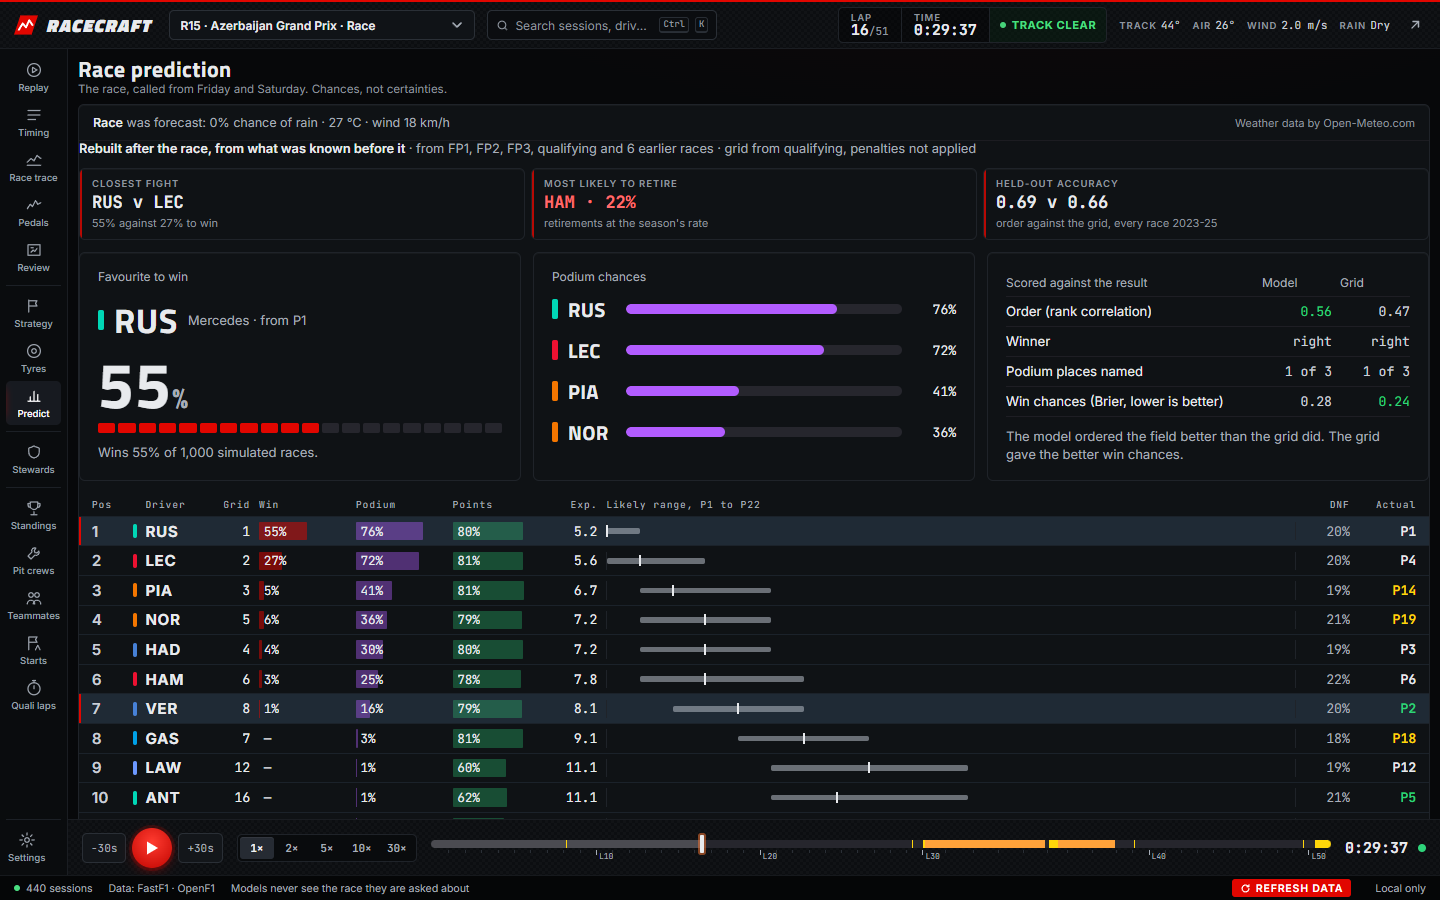
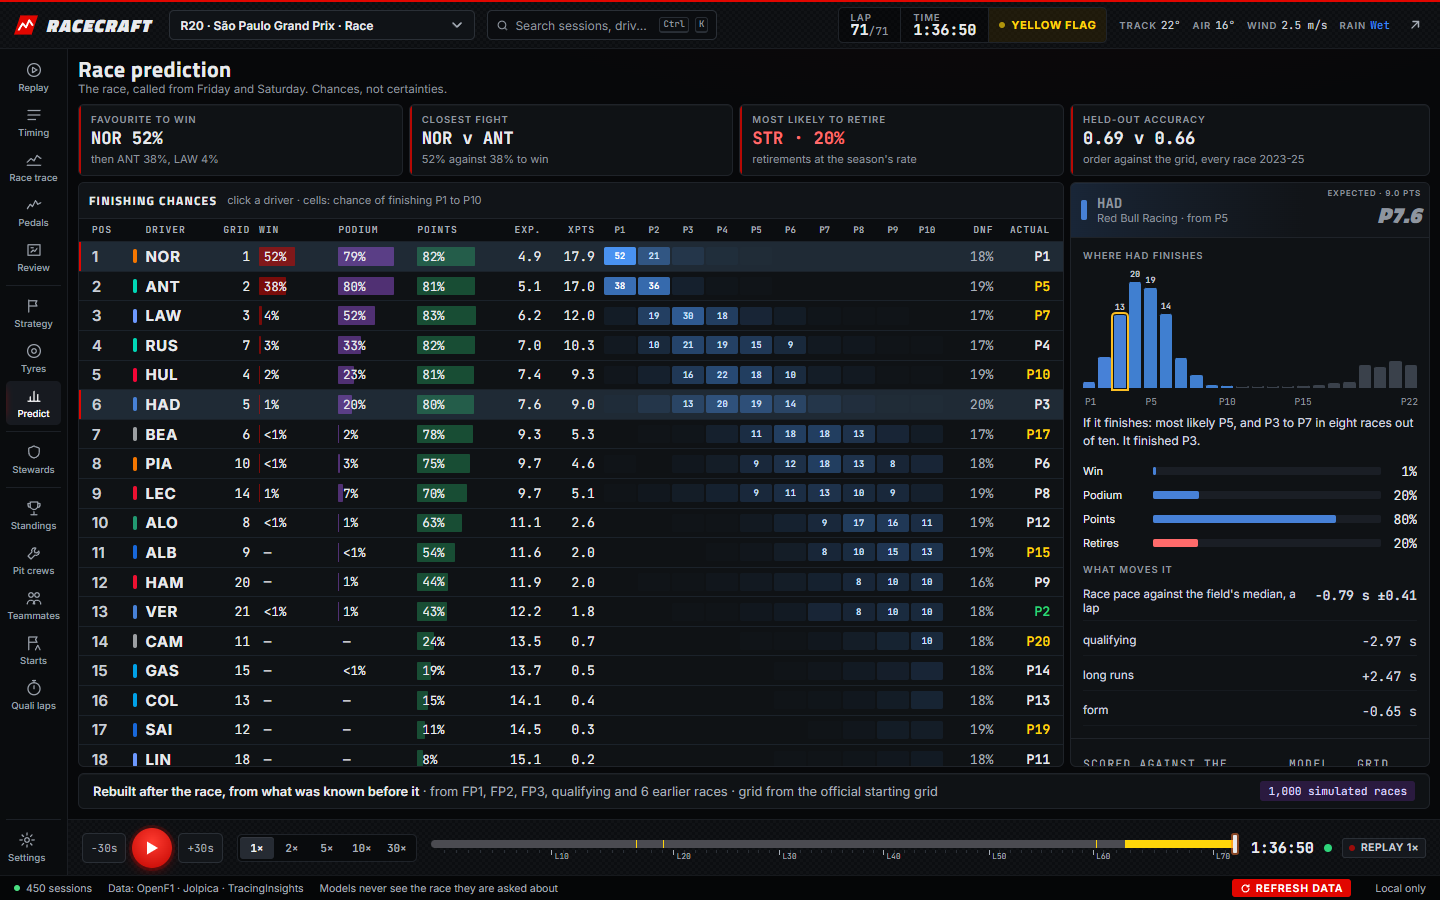
README and download page: describe the redesigned screens, retake every screenshot on São Paulo 2026, and update the 2026 replay figures (20 races)

diff --git a/README.md b/README.md
@@ -82,17 +82,17 @@ timing tower can sit on a second monitor.
 | | |
 |---|---|
 | **Replay**: a pit wall. The timing tower, the circuit coloured by a followed car's last lap (green flat out, red braking), and a dashboard for each of two followed drivers (speed, gear, revs, throttle, brake, the gaps either side); race control; and the followed drivers' last laps, channel by channel against lap distance. | ![Replay](docs/screenshots/replay.png) |
-| **Timing tower**: every car's gap, interval, last and best lap, sectors in timing colours, tyre and age, stops and penalties. | ![Timing tower](docs/screenshots/timing-tower.png) |
-| **Race trace**: the gap to the leader lap by lap, drawn only up to the lap on the clock. Safety-car laps are shaded. | ![Race trace](docs/screenshots/race-trace.png) |
-| **Pedals and speed**: one driver's lap against another's by distance: the time between them, speed, throttle, brake, gear and every brake zone. | ![Pedals and speed](docs/screenshots/pedals-and-speed.png) |
+| **Timing tower**: every car's gap, interval, last and best lap, sectors in timing colours, tyre and age, stops and penalties; beside it the field on a ring, one turn a lap, each car a tick that moves with the replay. | ![Timing tower](docs/screenshots/timing-tower.png) |
+| **Race trace**: positions lap by lap, with safety-car laps shaded and every pit stop marked; the gap to the leader and the interval as a bar per driver at any lap, with a lap slider; and each driver's race pace as a box of their green-flag laps. Nothing after the lap on the clock is shown. | ![Race trace](docs/screenshots/race-trace.png) |
+| **Pedals and speed**: one driver's lap against another's by distance: the headline figures, the time between them shaded by who is ahead, speed, a pedal row per driver, and every corner with each driver's slowest point, the time gained or lost there, and where they braked or lifted. | ![Pedals and speed](docs/screenshots/pedals-and-speed.png) |
 | **Race review**: per driver, overtakes made and lost on track, and each pit stop's lap and the places it cost, marked when made under a safety car, VSC or red flag. Click a driver to see their stops along the race, each in a sentence. | ![Race review](docs/screenshots/race-review.png) |
 
 ### Plan
 
 | | |
 |---|---|
-| **Strategy**: each car's pit window and most likely stop lap, the undercut watch, a stint map, and the cheapest plans raced against the field. | ![Strategy](docs/screenshots/strategy.png) |
-| **Tyres**: the wear curve for each compound with every car placed on it, and every car's tyre sets through the weekend. | ![Tyres](docs/screenshots/tyres.png) |
+| **Strategy**: each car's stints so far and the rest of its race shaded by what a stop on each lap would cost, with the cheapest lap marked; where it would rejoin among the cars around it; and the cheapest plans raced against the field. | ![Strategy](docs/screenshots/strategy.png) |
+| **Tyres**: a wear chart for each compound with every car placed on it at its tyres' age, and every car's tyre sets through the weekend. | ![Tyres](docs/screenshots/tyres.png) |
 | **Race prediction**: the favourite, podium chances, the full predicted order with each driver's likely range, and after the race the result beside it. | ![Race prediction](docs/screenshots/race-prediction.png) |
 
 ### Control
@@ -106,9 +106,9 @@ timing tower can sit on a second monitor.
 | | |
 |---|---|
 | **Standings**: both championships as they stood going into the session or after it, with each driver's and team's chance of the title. | ![Standings](docs/screenshots/standings.png) |
-| **Pit crews**: every team's crew ranked by its typical stop against the race's typical stop. | ![Pit crews](docs/screenshots/crews.png) |
+| **Pit crews**: every team's crew ranked by its typical stop against the race's typical stop, each as a box of all its stops this season. | ![Pit crews](docs/screenshots/crews.png) |
 | **Teammates**: each team's two drivers head to head: who qualified ahead, who was faster in races and practice, who finished ahead, and a round-by-round chart of the gap. | ![Teammates](docs/screenshots/teammates.png) |
-| **Starts**: places each driver gains or loses on lap 1, judged against what drivers starting from the same grid slots usually gain. | ![Starts](docs/screenshots/starts.png) |
+| **Starts**: an arrow per driver from grid slot to place after lap 1, judged against what drivers starting from the same grid slots usually gain. | ![Starts](docs/screenshots/starts.png) |
 | **Qualifying laps**: each driver's best lap against their own perfect lap (their three best sectors added together): the time left on the table, and where. | ![Qualifying laps](docs/screenshots/qualifying-laps.png) |
 
 **Settings** holds units, row density, the map's labels and refreshing the data.
@@ -157,11 +157,11 @@ on the other two; 2026, a new rulebook, was never trained on.
 | | Finishing order (rank correlation) | Win chances (Brier, lower is better) |
 |---|---|---|
 | 2023 to 2025, 69 races | **0.69** model, 0.66 grid | **0.54** model, 0.63 grid |
-| 2026, 18 races | **0.69** model, 0.66 grid | **0.45** model, 0.47 grid |
+| 2026, 20 races | **0.69** model, 0.64 grid | **0.48** model, 0.50 grid |
 
 It beats "everyone finishes where they started" every season, by a small margin:
 the grid already holds most of what is knowable on Saturday night. Over 2023 to 2025
-the gain is statistically real (Wilcoxon signed-rank, p < 0.001); 18 races of 2026
+the gain is statistically real (Wilcoxon signed-rank, p < 0.001); 20 races of 2026
 are too few to prove it either way.
 
 **Sprint prediction** ties the grid on order (a sprint is short and nobody stops)

diff --git a/docs/TECHNICAL.md b/docs/TECHNICAL.md
@@ -1131,7 +1131,7 @@ Bahrain 2023 is skipped: there is nothing before it in the lake.
 | 2023 | 21 | **0.64** / 0.59 / 0.59 | 76% / 62% / **81%** | **2.00** / 1.90 |
 | 2024 | 24 | **0.77** / 0.73 / 0.67 | **46%** / **46%** / 30% | 2.00 / 2.00 |
 | 2025 | 24 | **0.66** / 0.65 / 0.58 | **67%** / **67%** / 32% | 2.25 / 2.25 |
-| **2026, held out** | 18 | **0.69** / 0.66 / 0.65 | **72%** / **72%** / 47% | 1.89 / 1.89 |
+| **2026, held out** | 20 | **0.69** / 0.64 / 0.67 | **70%** / **70%** / 47% | **1.85** / 1.80 |
 | 2023–2025 | 69 | **0.69** / 0.66 / 0.61 | **62%** / 58% / 47% | **2.09** / 2.06 |
 
 How honest the chances are, as Brier scores (lower is better). For the grid, a
@@ -1142,9 +1142,10 @@ slot's chance is how often that slot has won or reached the podium.
 | 2023 | **0.39** / 0.60 | **1.41** / 1.59 |
 | 2024 | **0.72** / 0.75 | **1.34** / 1.39 |
 | 2025 | **0.50** / 0.54 | **1.12** / 1.19 |
-| **2026, held out** | **0.45** / 0.47 | **1.34** / 1.40 |
+| **2026, held out** | **0.48** / 0.50 | **1.41** / 1.47 |
 
-(Replayed 2026-10-28, through the US GP: 87 races, 500 runs each.)
+(Replayed 2026-11-13, through the São Paulo GP: 89 races, 500 runs each. 2023-2025 unchanged from the
+2026-10-28 replay.)
 
 What the replay says:
 
@@ -1156,17 +1157,18 @@ What the replay says:
 **Is the gain more than luck?** Each race's model score paired with the grid's,
 Wilcoxon signed-rank, one-sided (the model better), from `--out`'s per-race file:
 
-| Score | 2023–2025 (69 races) | 2026, held out (18) | All 87 |
+| Score | 2023–2025 (69 races) | 2026, held out (20) | All 89 |
 |---|---|---|---|
-| Win chances, log-loss | better in 49, p = 4e-5 | better in 9, p = 0.32 | better in 58, p = 5e-5 |
-| Win chances, Brier | better in 49, p = 3e-4 | better in 11, p = 0.32 | better in 60, p = 5e-4 |
-| Podium chances, Brier | better in 46, p = 0.001 | better in 10, p = 0.25 | better in 56, p = 0.001 |
-| Order, rank corr. | better in 43, p = 3e-4 | better in 13, p = 0.07 | better in 56, p = 1e-4 |
+| Win chances, log-loss | better in 49, p = 4e-5 | better in 10, p = 0.25 | better in 59, p = 4e-5 |
+| Win chances, Brier | better in 49, p = 3e-4 | better in 12, p = 0.30 | better in 61, p = 5e-4 |
+| Podium chances, Brier | better in 46, p = 0.001 | better in 11, p = 0.26 | better in 57, p = 0.002 |
+| Order, rank corr. | better in 43, p = 2e-4 | better in 15, p = 0.02 | better in 58, p = 3e-5 |
 
 Over 2023–2025 the gain is real, not luck, and those seasons were each predicted
-with weights from the other two. On 2026 alone it is ahead on every score but
-not provably: 18 races is too few to tell a small gain from chance, and win
-log-loss is level (9 of 18). Rerun once 2026 is complete.
+with weights from the other two. On 2026 alone the finishing order is now
+provably better than the grid's (15 of 20 races, p = 0.02); the chances are
+ahead but not provably: 20 races is too few to tell a small gain from chance,
+and win log-loss is level (10 of 20). Rerun once 2026 is complete.
 
 Three things here were changed after seeing the replay:
 
